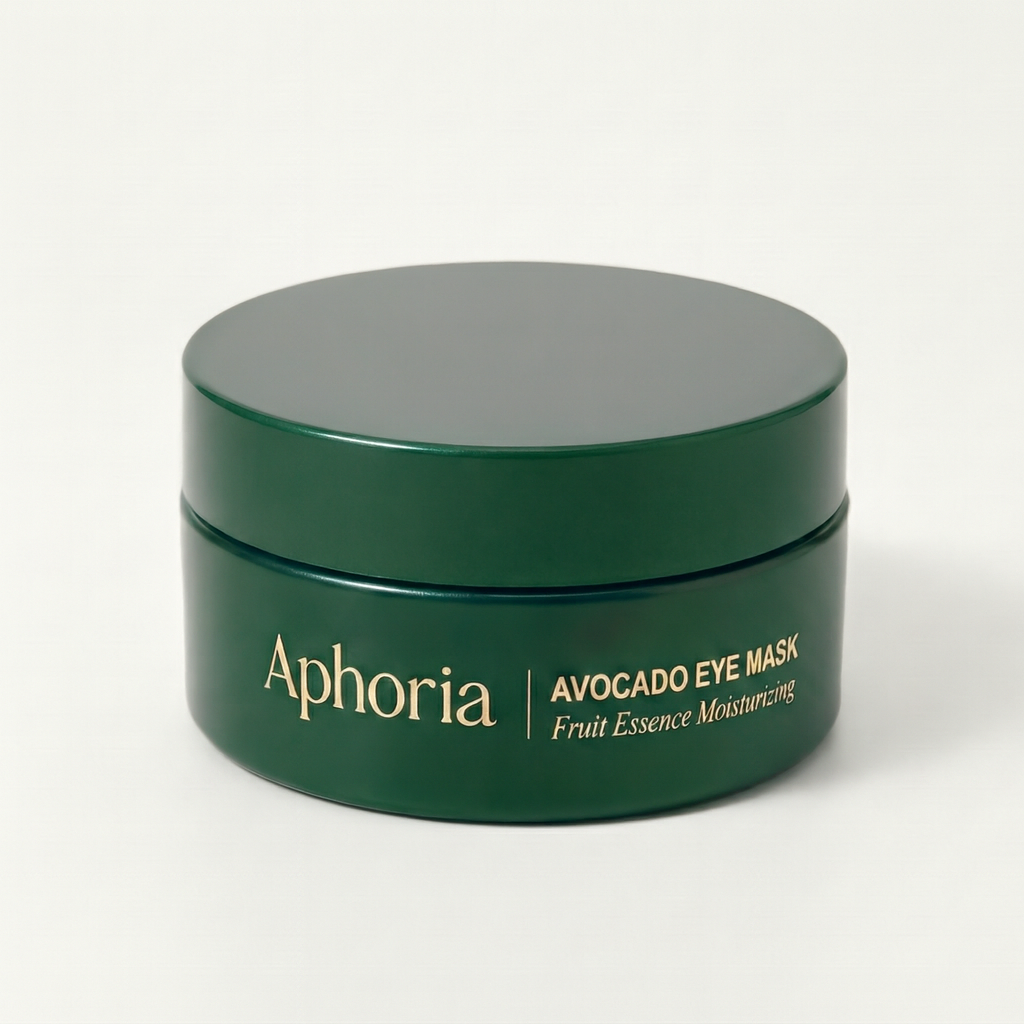
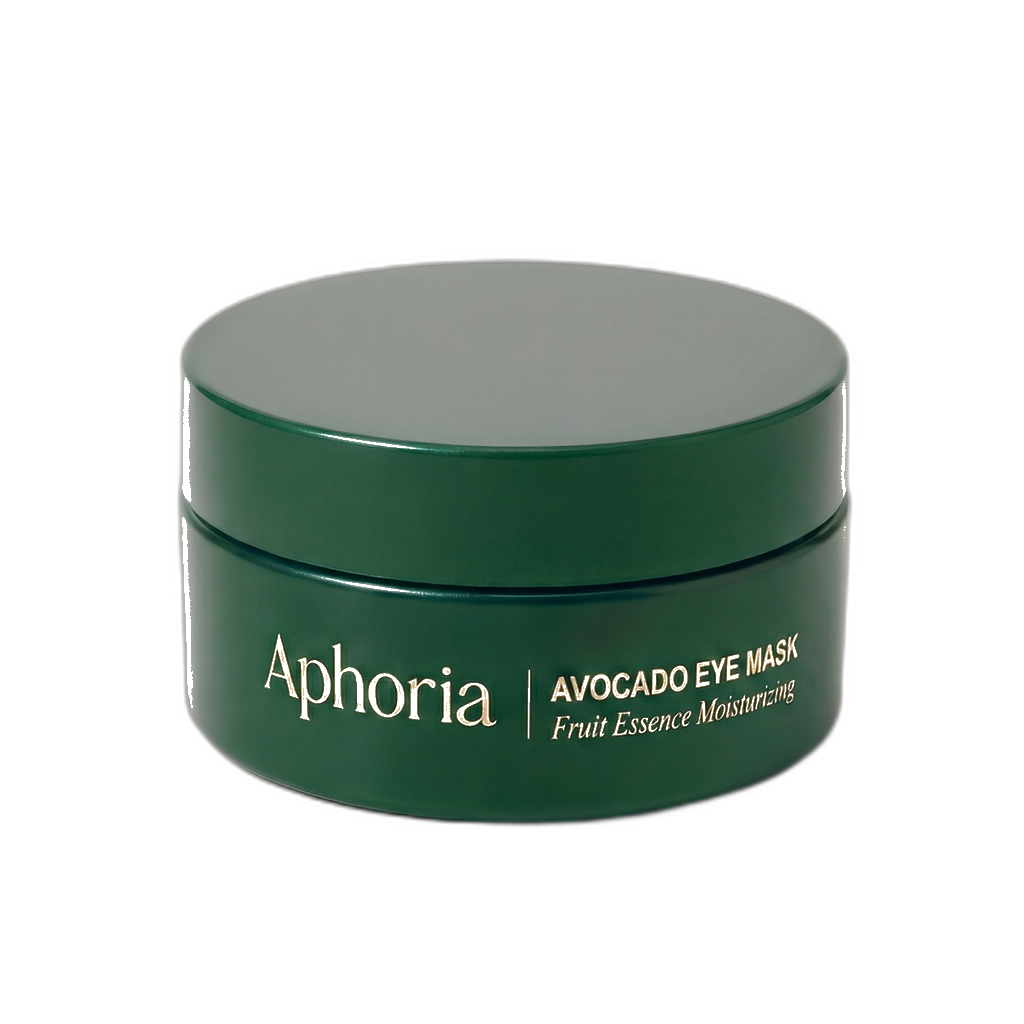
SAVEPOINT: image bg removal, UX fixes, diagnostic quiz overhaul
- Remove white/beige background from product images (rembg AI):
  · goldmask producto 1 pcs.png → RGBA transparent
  · avocado-producto.png → RGBA transparent (product + recommendation)
  · goldmask-recomendation.png → RGBA transparent

- Hero.tsx: black section bg, black poster data URI, onPlaying overlay
  to eliminate gray flash before video plays

- IngredientGrid.tsx: remove entrance animations, hover translate,
  image zoom effect; show 'What you'll notice' copy at all times;
  remove 'View regimen' link

- ProductDetail.tsx: resolve merge conflict, mix-blend-mode removed
  (transparent PNG needs no blend trick)

- Diagnostic.tsx: always show Avocado Mask result with clearest image,
  direct Shopify checkout URL (bypasses cart store entirely),
  no more wrong-product-in-cart bug

diff --git a/src/pages/Diagnostic.tsx b/src/pages/Diagnostic.tsx
@@ -17,8 +17,6 @@ import {
     Activity,
     Target
 } from 'lucide-react';
-import { useCartStore } from '../store/useCartStore';
-import { PRODUCTS } from '../constants';
 
 interface Question {
     id: number;
@@ -182,21 +180,16 @@ const Diagnostic: React.FC = () => {
         setResult(null);
     };
 
-    const { addItem, checkout } = useCartStore();
+    const CHECKOUT_VARIANTS: Record<'gold' | 'avocado', string> = {
+        gold:    '42441499410475',
+        avocado: '42494908629035',
+    };
 
-    const handleViewProtocol = () => {
-        const handle = result === 'gold' ? '24-gold-mask' : 'avocado-mask';
-        const product = PRODUCTS.find(p => p.handle === handle);
-        if (!product) return;
-        const v = product.variants['1pc'];
-        addItem({
-            variantId: v.shopifyVariantId || `local-${v.id}`,
-            title: product.name,
-            variantTitle: v.name,
-            price: v.price,
-            img: product.galleryImg || v.img,
-        });
-        checkout();
+    const handleViewProtocol = (quizResult: 'gold' | 'avocado') => {
+        const variantId = CHECKOUT_VARIANTS[quizResult];
+        const storeDomain = 'r6duap-tx.myshopify.com';
+        const returnTo = encodeURIComponent(window.location.origin);
+        window.location.href = `https://${storeDomain}/cart/${variantId}:1?return_to=${returnTo}`;
     };
 
     const progress = (currentStep / (QUESTIONS.length)) * 100;
@@ -317,14 +310,13 @@ const Diagnostic: React.FC = () => {
                                             <Target size={14} /> Clinical Recommendation
                                         </span>
                                         <h2 className="text-[42px] md:text-[56px] font-brand font-light text-aphoria-black leading-[1.05] tracking-tight">
-                                            Your skin requires <span className="italic">{result === 'gold' ? 'Radiance Activation' : 'Barrier Integration'}.</span>
+                                            Your skin requires <span className="italic">Barrier Integration.</span>
                                         </h2>
                                     </div>
 
                                     <div className="space-y-6">
                                         <p className="text-[17px] text-aphoria-mid leading-relaxed font-light">
-                                            {result === 'gold' && "Our clinic-grade 24 Gold Mask will stimulate cellular energy and restore terminal luminosity. Precision formulated for restorative renewal."}
-                                            {result === 'avocado' && "The Avocado Protocol is indicated for cellular rehydration and lipid barrier replenishment. Calming reactive responses at the source."}
+                                            The Avocado Protocol is indicated for cellular rehydration and lipid barrier replenishment. Calming reactive responses at the source.
                                         </p>
 
                                         <div className="pt-8 border-t border-aphoria-black/10">
@@ -343,7 +335,7 @@ const Diagnostic: React.FC = () => {
 
                                     <div className="flex flex-col sm:flex-row gap-3 pt-4">
                                         <button
-                                            onClick={handleViewProtocol}
+                                            onClick={() => handleViewProtocol('avocado')}
                                             className="flex-1 inline-flex items-center justify-center gap-2.5 bg-aphoria-black text-white px-7 py-3.5 rounded-full text-[11px] uppercase tracking-[0.22em] font-semibold hover:bg-aphoria-green transition-all duration-500 active:scale-95"
                                         >
                                             View Protocol <ArrowRight size={14} />
@@ -366,27 +358,11 @@ const Diagnostic: React.FC = () => {
                                             transition={{ duration: 1.2, ease: [0.22, 1, 0.36, 1] }}
                                             className="absolute inset-0 flex items-center justify-center p-8"
                                         >
-                                            {result === 'gold' ? (
-                                                <img
-                                                    src="/recomendation/goldmask/goldmask-recomendation.png"
-                                                    className="w-full h-full object-contain"
-                                                    alt="Gold Mask Result"
-                                                    style={{
-                                                        mixBlendMode: 'multiply',
-                                                        filter: 'brightness(1.35) contrast(1.05) saturate(1.1)',
-                                                    }}
-                                                />
-                                            ) : (
-                                                <img
-                                                    src="/recomendation/avocado/avocado-recomendation.png"
-                                                    className="w-full h-full object-contain"
-                                                    alt="Avocado Mask Result"
-                                                    style={{
-                                                        mixBlendMode: 'multiply',
-                                                        filter: 'brightness(1.35) contrast(1.05) saturate(1.1)',
-                                                    }}
-                                                />
-                                            )}
+                                            <img
+                                                src="/avocado-landing/producto/avocado-producto.png"
+                                                className="w-full h-full object-contain"
+                                                alt="Avocado Mask Result"
+                                            />
                                         </motion.div>
                                     </AnimatePresence>
                                 </div>

diff --git a/src/components/IngredientGrid.tsx b/src/components/IngredientGrid.tsx
@@ -12,7 +12,7 @@ const IngredientGrid: React.FC = () => {
       subcopy: 'mt-5 max-w-md text-aphoria-mid text-[15px] leading-relaxed',
       chip: 'rounded-sm border border-aphoria-black/10 bg-white px-4 py-2 text-[10px] uppercase tracking-[0.22em] text-aphoria-black',
       cta: 'inline-flex items-center gap-2 text-[11px] uppercase tracking-[0.28em] text-aphoria-black/70 hover:text-aphoria-black',
-      card: 'group relative rounded-lg border border-aphoria-black/10 bg-white p-8 transition-all duration-500 hover:-translate-y-2 hover:border-aphoria-black/30',
+      card: 'group relative rounded-lg border border-aphoria-black/10 bg-white p-8 transition-all duration-500 hover:border-aphoria-black/30',
       cardShadow: 'hover:shadow-[0_18px_40px_rgba(0,0,0,0.08)]',
       activeLabel: 'text-[10px] uppercase tracking-[0.3em] text-aphoria-black/50',
       mechanismLabel: 'text-[10px] uppercase tracking-[0.24em] text-aphoria-black/50',
@@ -31,7 +31,7 @@ const IngredientGrid: React.FC = () => {
       subcopy: 'mt-5 max-w-md text-aphoria-mid text-[15px] leading-relaxed',
       chip: 'rounded-full border border-aphoria-black/10 bg-white/60 px-4 py-2 text-[10px] uppercase tracking-[0.26em] text-aphoria-black',
       cta: 'inline-flex items-center gap-2 text-[11px] uppercase tracking-[0.28em] text-aphoria-black/80 hover:text-aphoria-black',
-      card: 'group relative rounded-2xl border border-aphoria-black/10 bg-white/70 p-8 backdrop-blur transition-all duration-500 hover:-translate-y-2 hover:border-aphoria-gold/40',
+      card: 'group relative rounded-2xl border border-aphoria-black/10 bg-white/70 p-8 backdrop-blur transition-all duration-500 hover:border-aphoria-gold/40',
       cardShadow: 'shadow-[0_20px_50px_rgba(0,0,0,0.06)] hover:shadow-[0_30px_60px_rgba(0,0,0,0.12)]',
       activeLabel: 'text-[10px] uppercase tracking-[0.3em] text-aphoria-gold',
       mechanismLabel: 'text-[10px] uppercase tracking-[0.24em] text-aphoria-mid',
@@ -50,7 +50,7 @@ const IngredientGrid: React.FC = () => {
       subcopy: 'mt-5 max-w-md text-aphoria-mid text-[15px] leading-relaxed',
       chip: 'rounded-full border border-aphoria-black/10 bg-white px-4 py-2 text-[10px] uppercase tracking-[0.26em] text-aphoria-black',
       cta: 'inline-flex items-center gap-2 text-[11px] uppercase tracking-[0.28em] text-aphoria-black/80 hover:text-aphoria-black',
-      card: 'group relative rounded-xl border border-aphoria-black/10 bg-white/90 p-8 transition-all duration-500 hover:-translate-y-2 hover:border-aphoria-black/25',
+      card: 'group relative rounded-xl border border-aphoria-black/10 bg-white/90 p-8 transition-all duration-500 hover:border-aphoria-black/25',
       cardShadow: 'shadow-[0_18px_40px_rgba(0,0,0,0.05)] hover:shadow-[0_26px_52px_rgba(0,0,0,0.1)]',
       activeLabel: 'text-[10px] uppercase tracking-[0.3em] text-aphoria-gold',
       mechanismLabel: 'text-[10px] uppercase tracking-[0.24em] text-aphoria-mid',
@@ -183,12 +183,8 @@ const IngredientGrid: React.FC = () => {
               const imgSrc = ingredientImages[item.benefitHeadline];
               const [isExpanded, setIsExpanded] = useState(false);
               return (
-                <motion.div
+                <div
                   key={item.name}
-                  initial={{ opacity: 0, y: 32 }}
-                  whileInView={{ opacity: 1, y: 0 }}
-                  viewport={{ once: true, margin: "200px" }}
-                  transition={{ duration: 1, delay: index * 0.1 }}
                   className={`${styles.card} ${styles.cardShadow}`}
                   onClick={() => setIsExpanded(!isExpanded)}
                 >
@@ -196,10 +192,9 @@ const IngredientGrid: React.FC = () => {
                     <img
                       src={imgSrc}
                       alt={item.name}
-                      className="h-44 md:h-48 lg:h-52 w-full object-cover transition-transform duration-700 ease-out group-hover:scale-105"
+                      className="h-44 md:h-48 lg:h-52 w-full object-cover"
                       loading="lazy"
                       decoding="async"
-                      style={{ transform: 'translateZ(0)' }}
                     />
                   </div>
                   <div className="flex items-center justify-between mb-6">
@@ -234,21 +229,14 @@ const IngredientGrid: React.FC = () => {
                     <div className={styles.ingredientName}>
                       {item.name}
                     </div>
-                    <div className={`mt-4 overflow-hidden transition-all duration-500 ${isExpanded ? 'max-h-24 opacity-100' : 'max-h-0 opacity-0 group-hover:max-h-24 group-hover:opacity-100'}`}>
+                    <div className="mt-4">
                       <div className="text-[10px] uppercase tracking-[0.28em] text-aphoria-mid mb-2">What you'll notice</div>
                       <div className="text-[13px] text-aphoria-mid">
                         {ingredientMeta[item.benefitHeadline]?.feel.join('. ')}.
                       </div>
                     </div>
-                    <a
-                      href="#protocol"
-                      className="mt-4 inline-flex items-center gap-2 text-[10px] uppercase tracking-[0.28em] text-aphoria-black/70 hover:text-aphoria-black"
-                    >
-                      View regimen
-                      <span className="h-[1px] w-6 bg-aphoria-black/40"></span>
-                    </a>
                   </div>
-                </motion.div>
+                </div>
               )
             })}
           </div>

diff --git a/src/components/Hero.tsx b/src/components/Hero.tsx
@@ -1,10 +1,11 @@
-import React from 'react';
+import React, { useState } from 'react';
 import { Link } from 'react-router-dom';
 import { motion, useScroll, useTransform } from 'framer-motion';
 import { ChevronRight } from 'lucide-react';
 import { HERO_COPY } from '../constants';
 
 const Hero: React.FC = () => {
+  const [videoReady, setVideoReady] = useState(false);
   const { scrollY } = useScroll();
   const y = useTransform(scrollY, [0, 800], [0, 200]);
   const opacity = useTransform(scrollY, [0, 400], [1, 0]);
@@ -32,7 +33,7 @@ const Hero: React.FC = () => {
 
 
   return (
-    <section className="relative h-screen w-full overflow-hidden flex items-end pb-24 md:pb-28">
+    <section className="relative h-screen w-full overflow-hidden flex items-end pb-24 md:pb-28 bg-black">
       {/* Cinematic Video Background - Maximum Quality */}
       <motion.div
         style={{ y }}
@@ -46,16 +47,24 @@ const Hero: React.FC = () => {
           muted
           loop
           playsInline
-          preload="metadata"
-          poster="/Hero%20video/hero-gold2.png"
+          preload="auto"
[1 lines of base64/hex data omitted]
           className="w-full h-full object-cover object-center"
           style={{
             transform: 'translate3d(0,0,0)',
-            willChange: 'transform'
+            willChange: 'transform',
+            backgroundColor: '#000000'
           }}
+          onPlaying={() => setVideoReady(true)}
         >
           <source src="/Hero%20video/hero-video.mp4" type="video/mp4" />
         </video>
+
+        {/* Black overlay — hides gray first frame until video is ready */}
+        <div
+          className="absolute inset-0 z-10 pointer-events-none bg-black transition-opacity duration-300"
+          style={{ opacity: videoReady ? 0 : 1 }}
+        />
 
         {/* Bottom Gradient for Text Legibility */}
         <div className="absolute inset-0 bg-gradient-to-t from-black/70 via-black/5 to-transparent z-10 pointer-events-none"></div>

diff --git a/src/pages/ProductDetail.tsx b/src/pages/ProductDetail.tsx
@@ -486,11 +486,7 @@ const ProductDetail: React.FC = () => {
                                     playsInline
                                     preload="metadata"
                                     poster={currentProduct.galleryImg}
-<<<<<<< HEAD
                                     className="w-full h-full object-cover grayscale-[20%] brightness-110"
-=======
-                                    className="w-full h-full object-cover"
->>>>>>> fix-stable
                                 >
                                     <source src={currentProduct.video} type="video/mp4" />
                                 </video>
